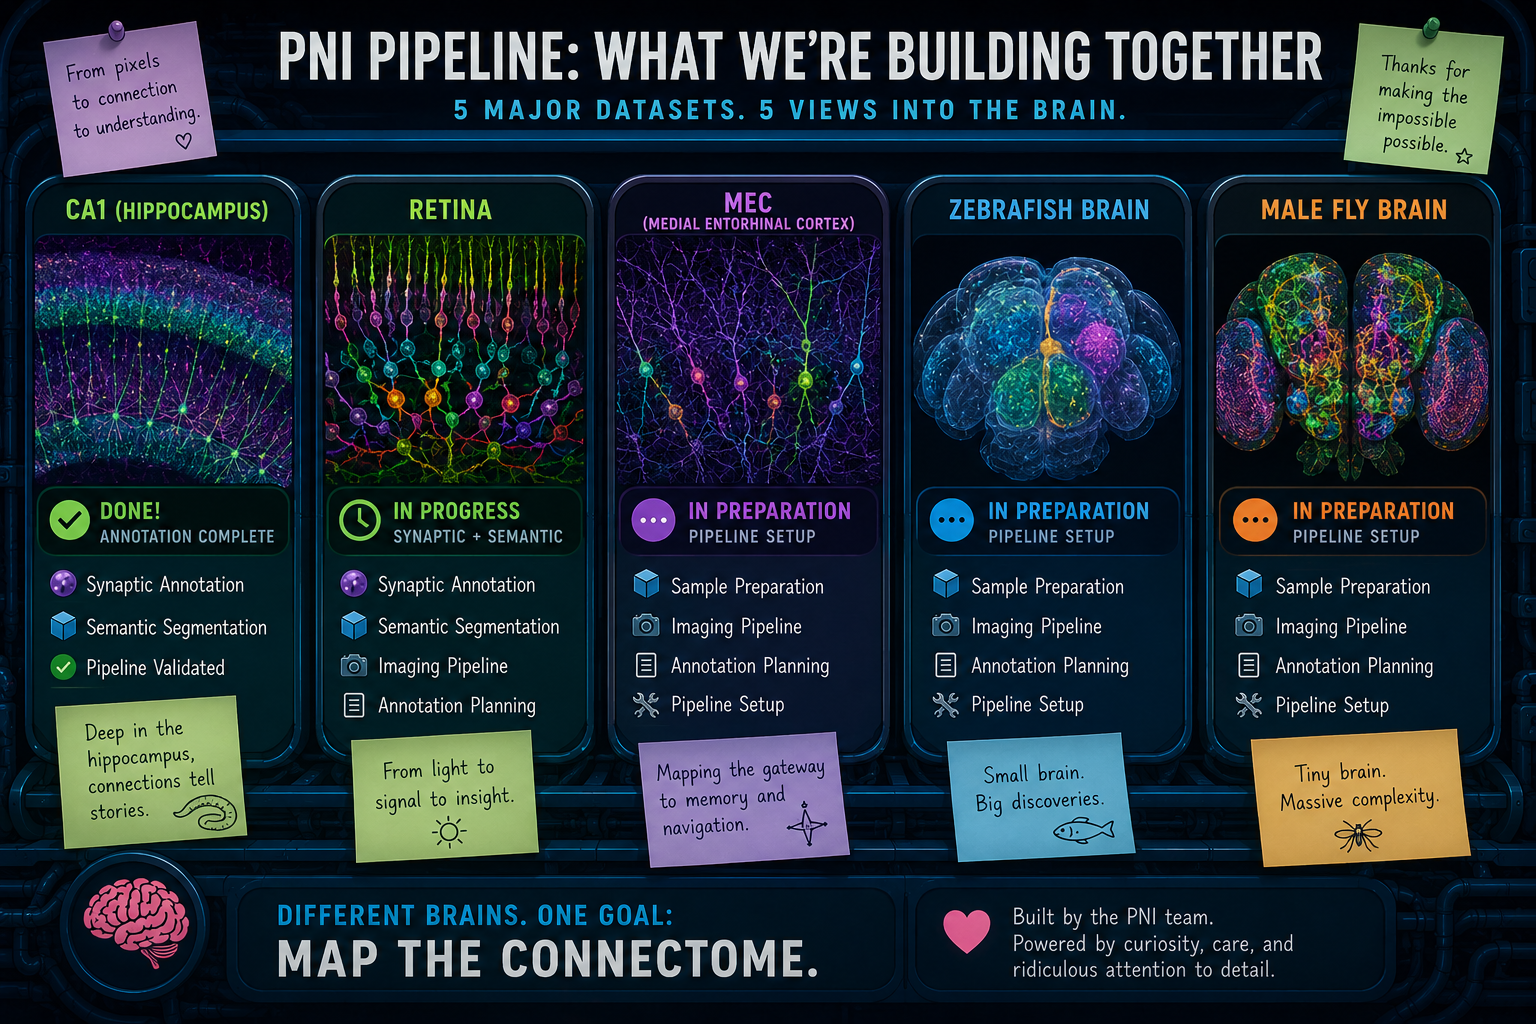
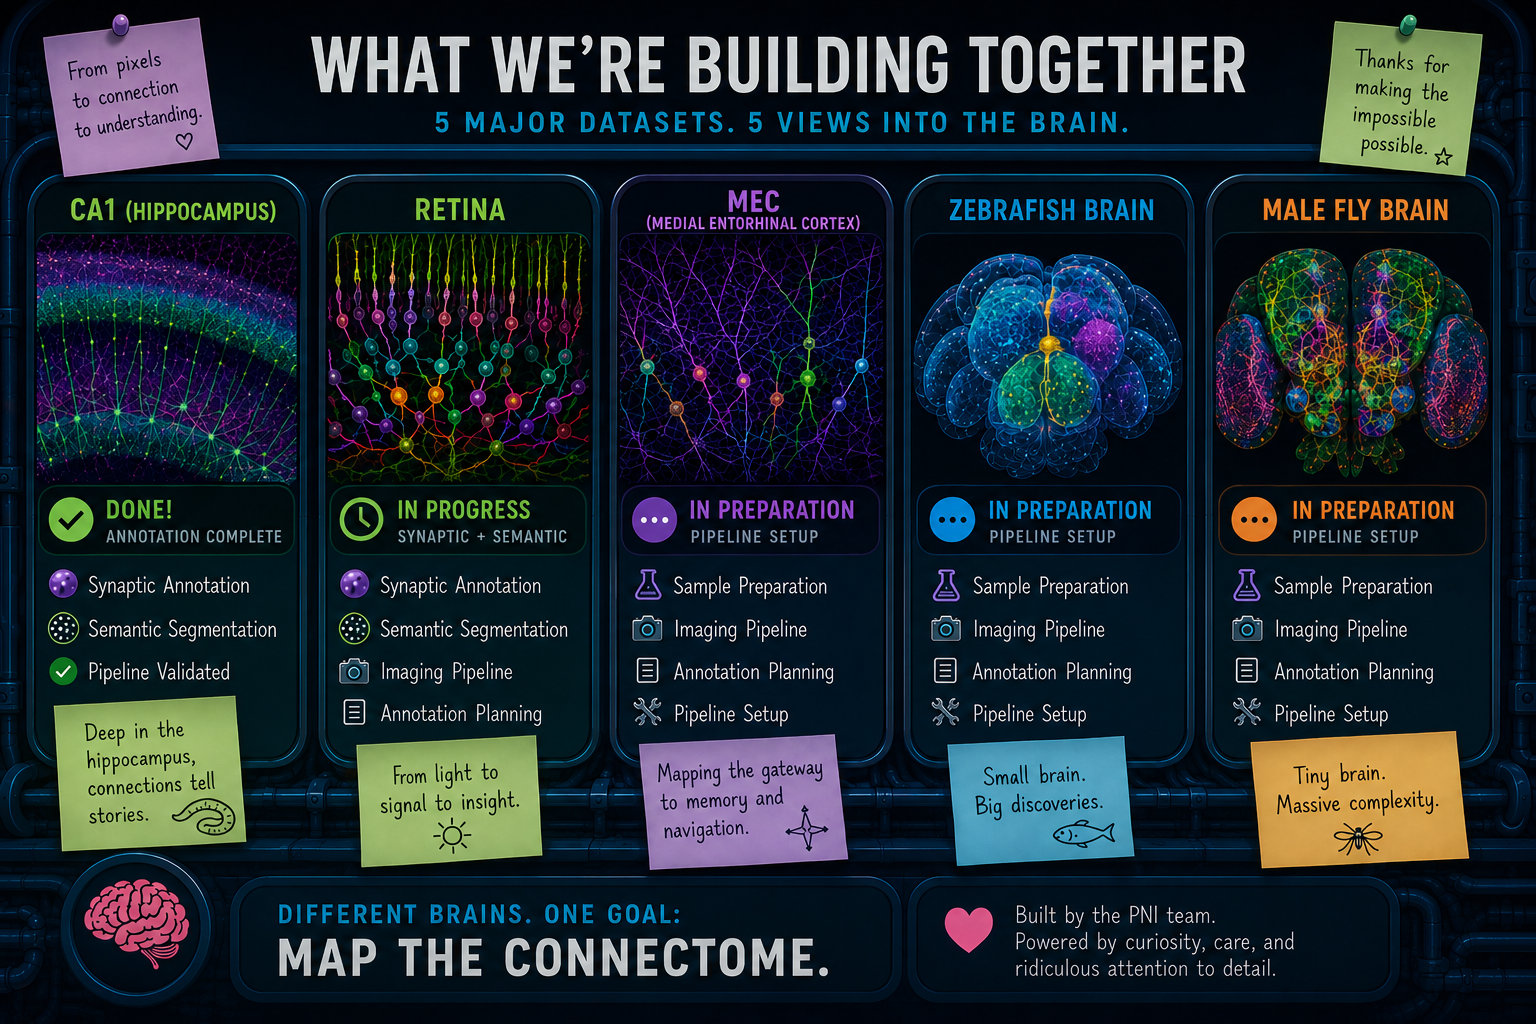
Update PNI Pipeline infographic and refresh alt text
New version reflects the current dataset lineup: CA1 hippocampus
(complete), retina (in progress), MEC, zebrafish brain, and male
fly brain (in preparation).

diff --git a/index.html b/index.html
@@ -362,7 +362,7 @@
          Placeholder for team photo collage (image TBD)
          ============================================================ -->
     <div class="hero-image">
-        <img src="gallery/pni-pipeline-upcoming.png" alt="PNI Pipeline: What we're building together. 5 new datasets, 5 views into the brain - mouse retina, zebrafish brain, drosophila brain #1, drosophila brain #2, and mosquito brain. Different brains. One goal: map the connectome.">
+        <img src="gallery/pni-pipeline-upcoming.png" alt="PNI Pipeline: What we're building together. 5 major datasets, 5 views into the brain - CA1 hippocampus (annotation complete), retina (in progress: synaptic + semantic), medial entorhinal cortex (in preparation), zebrafish brain (in preparation), and male fly brain (in preparation). Different brains. One goal: map the connectome.">
     </div>
 
 </main>
